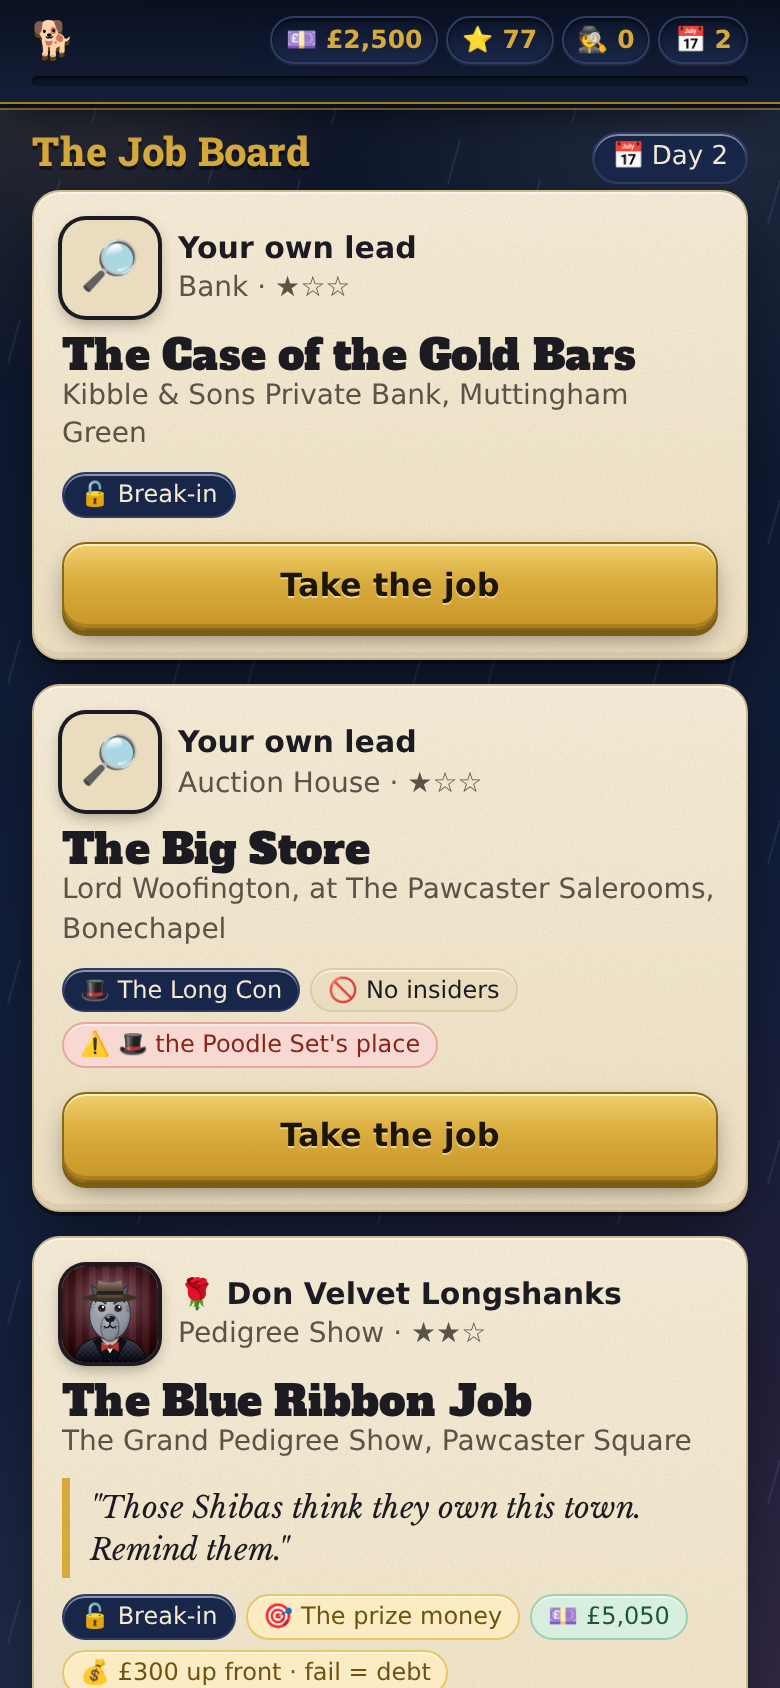
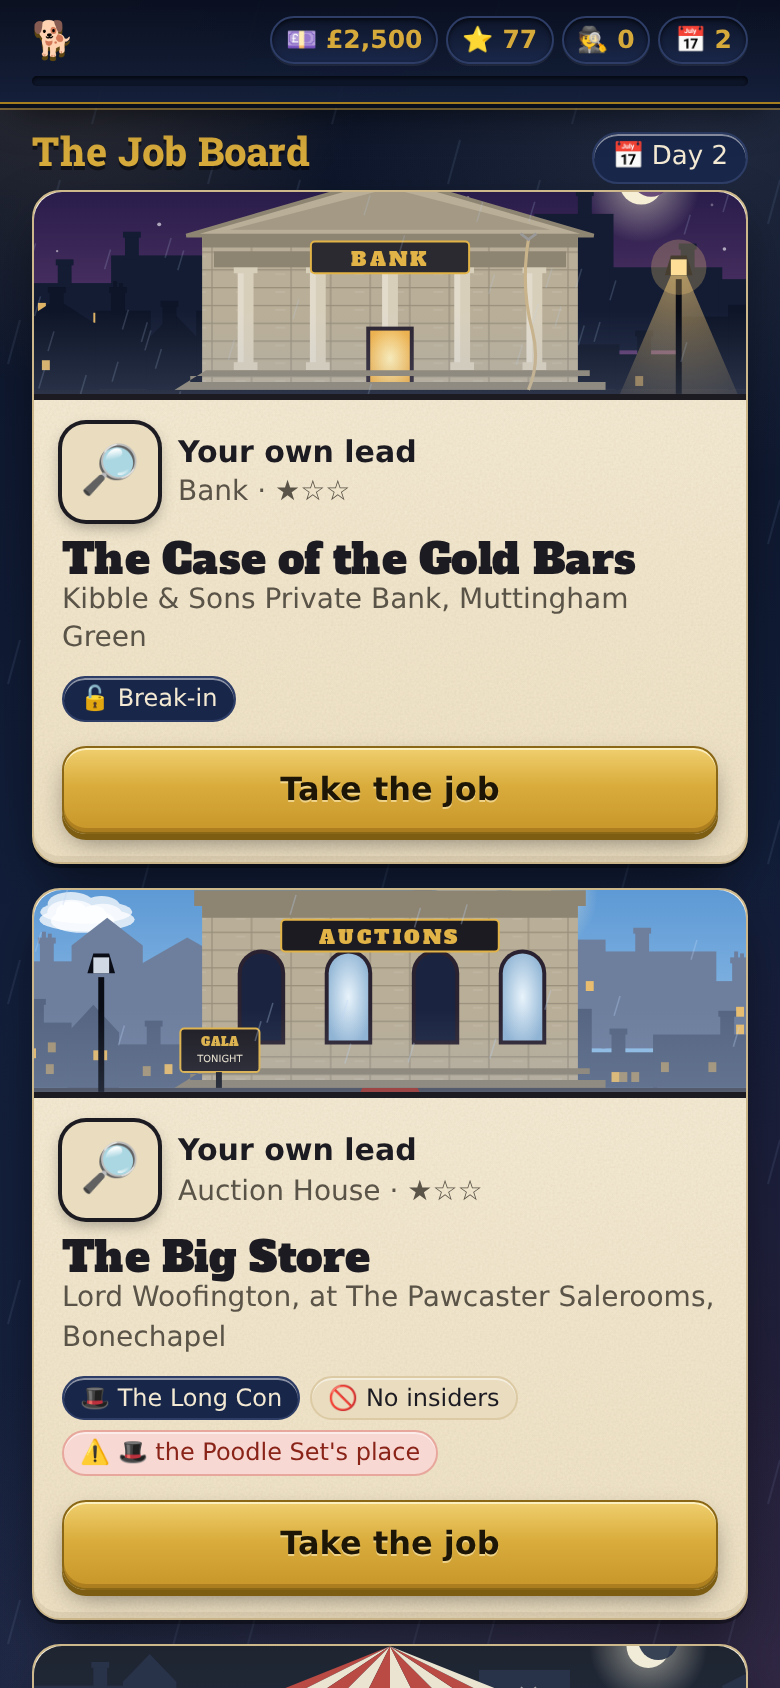
Job art: day and night, weather, textures, a hint of the job
- Scenes follow the job's time: a daytime version (blue sky, sun and
  clouds, glass windows, no lamplight) for day jobs and when you switch
  a job to day.
- Per-job mood and weather: night, dusk or deep night; rain, drizzle,
  fog or a clear night.
- Brick and stone textures on the buildings; lamplight shimmering on the
  wet street.
- A prop out front for each kind of job: the SECURI-K9 van and a guard,
  a bin through the window and glass on the pavement, a red carpet and
  GALA sign, a FRAGILE crate of replicas, the FLOWERS van with a dish
  and a glowing screen, a NOW HIRING sign, a rope off the roof.
- The job board shows each offer's scene as a 104px banner.
- Before/after: notes/captures/venues-*.png.

Claude-Session: https://claude.ai/code/session_0119DQBJUjuLkFW8ZZge45qz

diff --git a/src/art.js b/src/art.js
@@ -7,19 +7,39 @@ import { esc } from './util.js';
 let artUid = 0;
 const f1 = (n) => n.toFixed(1);
 
-function sky(u, W, H, rng) {
+// The sky for a scene. mood: { day, tone: 'night' | 'dusk' | 'deep', weather }.
+const SKIES = {
+  night: ['#0a1226', '#1d2f59', '#2d3f6b'],
+  dusk: ['#1b1440', '#5a3a6e', '#c9726a'],
+  deep: ['#05080f', '#101a33', '#1c2846'],
+  day: ['#4f8fd0', '#8fbde6', '#d6e8f4'],
+};
+function sky(u, W, H, rng, mood = {}) {
+  const [c0, c1, c2] = SKIES[mood.day ? 'day' : mood.tone || 'night'];
   let s = `<defs>
-    <linearGradient id="${u}sky" x1="0" y1="0" x2="0" y2="1"><stop offset="0" stop-color="#0a1226"/><stop offset=".7" stop-color="#1d2f59"/><stop offset="1" stop-color="#2d3f6b"/></linearGradient>
-    <radialGradient id="${u}moon" cx="50%" cy="50%" r="50%"><stop offset="0" stop-color="#fff8dc" stop-opacity=".55"/><stop offset="1" stop-color="#fff8dc" stop-opacity="0"/></radialGradient>
-    <radialGradient id="${u}lamp" cx="50%" cy="0%" r="100%"><stop offset="0" stop-color="#ffd27a" stop-opacity=".55"/><stop offset="1" stop-color="#ffd27a" stop-opacity="0"/></radialGradient>
-    <radialGradient id="${u}win" cx="50%" cy="50%" r="60%"><stop offset="0" stop-color="#fff0b8"/><stop offset="1" stop-color="#f0b24a"/></radialGradient>
-    <linearGradient id="${u}fog" x1="0" y1="0" x2="0" y2="1"><stop offset="0" stop-color="#9fb2d6" stop-opacity="0"/><stop offset="1" stop-color="#9fb2d6" stop-opacity=".28"/></linearGradient>
-    <linearGradient id="${u}street" x1="0" y1="0" x2="0" y2="1"><stop offset="0" stop-color="#1b2238"/><stop offset="1" stop-color="#0b0f1c"/></linearGradient>
+    <linearGradient id="${u}sky" x1="0" y1="0" x2="0" y2="1"><stop offset="0" stop-color="${c0}"/><stop offset=".7" stop-color="${c1}"/><stop offset="1" stop-color="${c2}"/></linearGradient>
+    <radialGradient id="${u}moon" cx="50%" cy="50%" r="50%"><stop offset="0" stop-color="${mood.day ? '#fffbe6' : '#fff8dc'}" stop-opacity="${mood.day ? '.8' : '.55'}"/><stop offset="1" stop-color="#fff8dc" stop-opacity="0"/></radialGradient>
+    <radialGradient id="${u}lamp" cx="50%" cy="0%" r="100%"><stop offset="0" stop-color="#ffd27a" stop-opacity="${mood.day ? 0 : 0.55}"/><stop offset="1" stop-color="#ffd27a" stop-opacity="0"/></radialGradient>
+    <radialGradient id="${u}win" cx="50%" cy="50%" r="60%">${mood.day ? '<stop offset="0" stop-color="#e8f3fb"/><stop offset="1" stop-color="#8fb4d4"/>' : '<stop offset="0" stop-color="#fff0b8"/><stop offset="1" stop-color="#f0b24a"/>'}</radialGradient>
+    <linearGradient id="${u}fog" x1="0" y1="0" x2="0" y2="1"><stop offset="0" stop-color="#9fb2d6" stop-opacity="0"/><stop offset="1" stop-color="#9fb2d6" stop-opacity="${mood.weather === 'fog' ? 0.6 : 0.28}"/></linearGradient>
+    <linearGradient id="${u}street" x1="0" y1="0" x2="0" y2="1">${mood.day ? '<stop offset="0" stop-color="#5b6274"/><stop offset="1" stop-color="#3a3f4d"/>' : '<stop offset="0" stop-color="#1b2238"/><stop offset="1" stop-color="#0b0f1c"/>'}</linearGradient>
+    <pattern id="${u}brick" width="12" height="6" patternUnits="userSpaceOnUse"><path d="M0 .3H12M0 3.3H12M3 .3V3.3M9 3.3V6.3" stroke="#000" stroke-width=".6" opacity=".22"/><rect x="4" y="1" width="3" height="1.4" fill="#fff" opacity=".05"/></pattern>
+    <pattern id="${u}stone" width="20" height="9" patternUnits="userSpaceOnUse"><path d="M0 .3H20M10 .3V9" stroke="#000" stroke-width=".6" opacity=".18"/><rect x="2" y="2" width="5" height="1" fill="#fff" opacity=".08"/></pattern>
   </defs>`;
   s += `<rect width="${W}" height="${H}" fill="url(#${u}sky)"/>`;
-  for (let i = 0; i < 18; i++) s += `<circle cx="${f1(rng.float(0, W))}" cy="${f1(rng.float(2, H * 0.4))}" r="${f1(rng.float(0.4, 1.1))}" fill="#fff" opacity="${f1(rng.float(0.3, 0.8))}"/>`;
+  if (mood.day) {
+    // Sun and a few clouds.
+    const sx = rng.float(W * 0.65, W * 0.9), sy = rng.float(16, 28);
+    s += `<circle cx="${f1(sx)}" cy="${f1(sy)}" r="34" fill="url(#${u}moon)"/><circle cx="${f1(sx)}" cy="${f1(sy)}" r="10" fill="#fff6c8"/>`;
+    for (let i = 0; i < 4; i++) {
+      const cx = rng.float(0, W), cy = rng.float(10, 46), w = rng.float(26, 50);
+      s += `<g fill="#fff" opacity=".75"><ellipse cx="${f1(cx)}" cy="${f1(cy)}" rx="${f1(w / 2)}" ry="6"/><ellipse cx="${f1(cx - w / 6)}" cy="${f1(cy - 4)}" rx="${f1(w / 4)}" ry="6"/><ellipse cx="${f1(cx + w / 6)}" cy="${f1(cy - 3)}" rx="${f1(w / 5)}" ry="5"/></g>`;
+    }
+    return s;
+  }
+  if (mood.weather !== 'fog') for (let i = 0; i < 18; i++) s += `<circle cx="${f1(rng.float(0, W))}" cy="${f1(rng.float(2, H * 0.4))}" r="${f1(rng.float(0.4, 1.1))}" fill="#fff" opacity="${f1(rng.float(0.3, 0.8))}"/>`;
   const mx = rng.float(W * 0.65, W * 0.92), my = rng.float(18, 32);
-  s += `<circle cx="${f1(mx)}" cy="${f1(my)}" r="30" fill="url(#${u}moon)"/><circle cx="${f1(mx)}" cy="${f1(my)}" r="11" fill="#f6efd6"/><circle cx="${f1(mx + 5)}" cy="${f1(my - 3)}" r="10" fill="#1a2a50" opacity=".9"/>`;
+  s += `<circle cx="${f1(mx)}" cy="${f1(my)}" r="30" fill="url(#${u}moon)"/><circle cx="${f1(mx)}" cy="${f1(my)}" r="11" fill="#f6efd6"/><circle cx="${f1(mx + 5)}" cy="${f1(my - 3)}" r="10" fill="${c1}" opacity=".9"/>`;
   return s;
 }
 
@@ -58,7 +78,7 @@ function windows(u, x0, y0, cols, rows, w, h, gx, gy, rng, frame = '#2a2230') {
       s += `<rect x="${x - 1.5}" y="${y - 1.5}" width="${w + 3}" height="${h + 3}" fill="${frame}"/>`;
       s += `<rect x="${x}" y="${y}" width="${w}" height="${h}" fill="${lit ? `url(#${u}win)` : '#1a2440'}"/>`;
       s += `<path d="M${x + w / 2} ${y} V${y + h} M${x} ${y + h / 2} H${x + w}" stroke="${frame}" stroke-width="1"/>`;
-      if (lit) s += `<rect x="${x - 4}" y="${y - 4}" width="${w + 8}" height="${h + 8}" fill="#ffd27a" opacity=".12"/>`;
+      if (lit) s += `<rect x="${x - 4}" y="${y - 4}" width="${w + 8}" height="${h + 8}" fill="url(#${u}lamp)" opacity=".5"/>`;
       else s += `<path d="M${x + 1} ${y + 1} L${x + w * 0.4} ${y + h * 0.4}" stroke="#fff" stroke-opacity=".15"/>`;
     }
   }
@@ -94,9 +114,8 @@ function building(u, type, cx, ground, rng) {
   if (type === 'bank' || type === 'museum' || type === 'auction') {
     const w = 190, h = type === 'auction' ? 92 : 78, x = cx - w / 2, y = ground - h;
     if (type === 'museum') s += `<ellipse cx="${cx}" cy="${y - 20}" rx="34" ry="28" fill="#7f9aa0"/><rect x="${cx - 36}" y="${y - 22}" width="72" height="22" fill="${stone}"/><path d="M${cx - 30} ${y - 30} Q${cx} ${y - 60} ${cx + 30} ${y - 30}" stroke="#fff" stroke-opacity=".2" fill="none" stroke-width="3"/><rect x="${cx - 1.5}" y="${y - 56}" width="3" height="10" fill="#7f9aa0"/>`;
-    s += `<rect x="${x}" y="${y}" width="${w}" height="${h}" fill="${stone}"/>`;
+    s += `<rect x="${x}" y="${y}" width="${w}" height="${h}" fill="${stone}"/><rect x="${x}" y="${y}" width="${w}" height="${h}" fill="url(#${u}stone)"/>`;
     s += `<path d="M${x} ${y} h${w} v6 h${-w} Z" fill="${stoneDk}"/>`;
-    for (let r = 1; r < h / 9; r++) s += `<path d="M${x} ${y + r * 9} h${w}" stroke="${stoneDk}" stroke-opacity=".35"/>`;
     if (type !== 'auction') {
       s += `<path d="M${x - 8} ${y} L${cx} ${y - 30} L${x + w + 8} ${y} Z" fill="${stone}" stroke="${stoneDk}" stroke-width="2"/><path d="M${x + 14} ${y - 3} L${cx} ${y - 24} L${x + w - 14} ${y - 3} Z" fill="${stoneDk}" opacity=".5"/>`;
       s += columns(x + 22, y + 18, w - 44, h - 30, 5);
@@ -117,8 +136,7 @@ function building(u, type, cx, ground, rng) {
   } else if (type === 'jeweller' || type === 'butcher') {
     const w = 170, h = 96, x = cx - w / 2, y = ground - h;
     const brick = type === 'jeweller' ? '#3b2c3f' : '#7a3b2e';
-    s += `<rect x="${x}" y="${y}" width="${w}" height="${h}" fill="${brick}"/>`;
-    for (let r = 0; r < h / 6; r++) s += `<path d="M${x} ${y + r * 6} h${w}" stroke="#000" stroke-opacity=".12"/>`;
+    s += `<rect x="${x}" y="${y}" width="${w}" height="${h}" fill="${brick}"/><rect x="${x}" y="${y}" width="${w}" height="${h}" fill="url(#${u}brick)"/>`;
     s += windows(u, x + 20, y + 10, 4, 1, 22, 20, 18, 0, rng);
     s += `<rect x="${x + 6}" y="${y + 44}" width="${w - 12}" height="${h - 44}" fill="#1d1b22"/>`;
     s += sign(cx, y + 43, 120, type === 'jeweller' ? 'JEWELLERS' : 'BUTCHER', type === 'jeweller' ? '#1d1b22' : '#1f3a2a', type === 'jeweller' ? '#e2b447' : '#f3ead3');
@@ -133,14 +151,13 @@ function building(u, type, cx, ground, rng) {
     const w = 200, h = 80, x = cx - w / 2, y = ground - h;
     s += `<path d="M${x - 6} ${y} L${cx} ${y - 34} L${x + w + 6} ${y} Z" fill="#3c2f3a"/>`;
     s += `<rect x="${x + 30}" y="${y - 44}" width="10" height="24" fill="#6a3a2e"/><rect x="${x + w - 40}" y="${y - 44}" width="10" height="24" fill="#6a3a2e"/>`;
-    s += `<rect x="${x}" y="${y}" width="${w}" height="${h}" fill="#8a4a38"/>`;
-    for (let r = 0; r < h / 6; r++) s += `<path d="M${x} ${y + r * 6} h${w}" stroke="#000" stroke-opacity=".12"/>`;
+    s += `<rect x="${x}" y="${y}" width="${w}" height="${h}" fill="#8a4a38"/><rect x="${x}" y="${y}" width="${w}" height="${h}" fill="url(#${u}brick)"/>`;
     s += windows(u, x + 16, y + 10, 5, 2, 20, 22, 18, 12, rng, '#efe6cf');
     s += `<path d="M${cx - 14} ${ground} V${ground - 30} a14 14 0 0 1 28 0 V${ground} Z" fill="#2b3b30" stroke="#efe6cf" stroke-width="2"/><circle cx="${cx + 20}" cy="${ground - 34}" r="3" fill="#ffd27a"/>`;
     s += `<ellipse cx="${x + 10}" cy="${ground - 4}" rx="18" ry="9" fill="#1f3a2a"/><ellipse cx="${x + w - 10}" cy="${ground - 4}" rx="18" ry="9" fill="#1f3a2a"/>`;
   } else if (type === 'casino') {
     const w = 190, h = 90, x = cx - w / 2, y = ground - h;
-    s += `<rect x="${x}" y="${y}" width="${w}" height="${h}" fill="#241a2e"/>`;
+    s += `<rect x="${x}" y="${y}" width="${w}" height="${h}" fill="#241a2e"/><rect x="${x}" y="${y}" width="${w}" height="${h}" fill="url(#${u}brick)" opacity=".6"/>`;
     s += windows(u, x + 14, y + 36, 6, 1, 18, 16, 11, 0, rng, '#120d18');
     s += `<rect x="${x + 20}" y="${y + 6}" width="${w - 40}" height="24" rx="4" fill="#3a1030" stroke="#ff5ca8" stroke-width="2"/>`;
     s += `<text x="${cx}" y="${y + 23}" text-anchor="middle" font-family="Alfa Slab One, Rockwell, Georgia, serif" font-size="14" letter-spacing="2" fill="#ffd3ea">CASINO</text>`;
@@ -164,27 +181,73 @@ function building(u, type, cx, ground, rng) {
   return s;
 }
 
-export function venueSVG(job) {
+// Something out front that says what kind of job it is.
+function props(u, type, W, ground, rng, day) {
+  const x = rng.chance(0.5) ? 70 : W - 120;
+  const ink = '#14161f';
+  switch (type) {
+    case 'van': // the armoured van, and a guard
+      return `<g><rect x="${x}" y="${ground - 30}" width="56" height="26" rx="3" fill="#5a6270"/><rect x="${x + 40}" y="${ground - 24}" width="18" height="20" rx="3" fill="#4a515e"/><rect x="${x + 44}" y="${ground - 21}" width="11" height="8" fill="${day ? '#9fc3e6' : '#2a3a5a'}"/>
+        <rect x="${x + 4}" y="${ground - 26}" width="34" height="10" fill="#3a404b"/><text x="${x + 21}" y="${ground - 18.5}" text-anchor="middle" font-size="5.5" font-family="system-ui,sans-serif" font-weight="800" fill="#e2b447">SECURI-K9</text>
+        <circle cx="${x + 12}" cy="${ground - 3}" r="5" fill="${ink}"/><circle cx="${x + 46}" cy="${ground - 3}" r="5" fill="${ink}"/><circle cx="${x + 12}" cy="${ground - 3}" r="2" fill="#777"/><circle cx="${x + 46}" cy="${ground - 3}" r="2" fill="#777"/>
+        <rect x="${x - 12}" y="${ground - 20}" width="7" height="14" rx="2" fill="#26314a"/><circle cx="${x - 8.5}" cy="${ground - 24}" r="4" fill="#c69064"/><rect x="${x - 13}" y="${ground - 29}" width="9" height="3" fill="#111"/></g>`;
+    case 'smash': // a bin mid-flight and glass on the pavement
+      return `<g><rect x="${W / 2 - 50}" y="${ground - 46}" width="12" height="15" rx="2" fill="#3c4a3a" transform="rotate(-24 ${W / 2 - 44} ${ground - 38})"/><path d="M${W / 2 - 70} ${ground - 40} q8 -4 14 -2" stroke="#fff" stroke-opacity=".5" fill="none" stroke-dasharray="2 2"/>
+        ${Array.from({ length: 10 }, (_, i) => `<path d="M${f1(W / 2 - 40 + i * 9 + rng.float(-3, 3))} ${f1(ground + 2 + rng.float(0, 6))} l2 -3 l2 3 Z" fill="#cfe8ff" opacity=".8"/>`).join('')}</g>`;
+    case 'con': // a red carpet and a gala sign
+      return `<g><path d="M${W / 2 - 14} ${ground} L${W / 2 + 14} ${ground} L${W / 2 + 26} ${ground + 26} L${W / 2 - 26} ${ground + 26} Z" fill="#9c2e27"/>
+        <rect x="${x + 4}" y="${ground - 30}" width="40" height="22" rx="2" fill="#1d1b22" stroke="#e2b447"/><text x="${x + 24}" y="${ground - 21}" text-anchor="middle" font-size="6" font-family="Alfa Slab One, Georgia, serif" fill="#e2b447">GALA</text><text x="${x + 24}" y="${ground - 13}" text-anchor="middle" font-size="5" font-family="system-ui,sans-serif" fill="#efe6cf">TONIGHT</text><rect x="${x + 22}" y="${ground - 8}" width="3" height="8" fill="${ink}"/></g>`;
+    case 'swap': // a crate of replicas being delivered
+      return `<g><rect x="${x}" y="${ground - 18}" width="30" height="18" fill="#a07a48" stroke="#6d5130"/><path d="M${x} ${ground - 18} l30 18 M${x + 30} ${ground - 18} l-30 18" stroke="#6d5130"/><text x="${x + 15}" y="${ground - 21}" text-anchor="middle" font-size="5" font-family="system-ui,sans-serif" font-weight="800" fill="#f3ead3">FRAGILE</text></g>`;
+    case 'hack': // a van with a dish and a glowing screen
+      return `<g><rect x="${x}" y="${ground - 26}" width="52" height="22" rx="4" fill="#e9e3d2"/><rect x="${x + 38}" y="${ground - 22}" width="12" height="9" fill="${day ? '#9fc3e6' : '#2a3a5a'}"/><rect x="${x + 6}" y="${ground - 21}" width="16" height="9" fill="#5fffa8" opacity=".85"/>
+        <text x="${x + 26}" y="${ground - 8}" text-anchor="middle" font-size="5" font-family="system-ui,sans-serif" font-weight="800" fill="#7a2340">FLOWERS</text><path d="M${x + 20} ${ground - 26} l4 -8 M${x + 18} ${ground - 38} a8 8 0 0 0 12 8" stroke="#bbb" stroke-width="1.6" fill="none"/>
+        <circle cx="${x + 10}" cy="${ground - 3}" r="4.5" fill="${ink}"/><circle cx="${x + 42}" cy="${ground - 3}" r="4.5" fill="${ink}"/></g>`;
+    case 'fraud': // the job advert in the window
+      return `<g><rect x="${x + 6}" y="${ground - 34}" width="36" height="14" rx="2" fill="#efe6cf" stroke="#1d1b22"/><text x="${x + 24}" y="${ground - 24.5}" text-anchor="middle" font-size="6" font-family="Alfa Slab One, Georgia, serif" fill="#9c2e27">NOW HIRING</text><rect x="${x + 22}" y="${ground - 20}" width="3" height="20" fill="${ink}"/></g>`;
+    default: // a break-in: a rope dangling from the roof
+      return `<path d="M${W / 2 + 70} ${ground - 76} q-4 24 2 46 q4 16 -2 30" stroke="#c9b38a" stroke-width="1.6" fill="none"/><path d="M${W / 2 + 66} ${ground - 79} l4 3 l4 -3" stroke="#999" stroke-width="1.4" fill="none"/>`;
+  }
+}
+
+// The job's scene: its venue, by day or night, in its own weather, with a hint of the job.
+// compact: a shorter crop for the job board.
+export function venueSVG(job, opts = {}) {
   const u = `va${++artUid}`;
   const W = 360, H = 150, ground = 124;
   const rng = makeRng({ s: hashString(job.id + job.venueName) });
-  let s = sky(u, W, H, rng);
-  s += rooftops(W, ground - 20, rng, '#131c33', 30, 70);
-  s += rooftops(W, ground, rng, '#0e1528', 16, 44);
+  const day = job.time === 'day';
+  const mood = { day, tone: rng.pick(['night', 'night', 'dusk', 'deep']), weather: rng.pick(['rain', 'rain', 'fog', 'clear', 'drizzle']) };
+  let s = sky(u, W, H, rng, mood);
+  s += rooftops(W, ground - 20, rng, day ? '#6e7f9e' : '#131c33', 30, 70);
+  s += rooftops(W, ground, rng, day ? '#566682' : '#0e1528', 16, 44);
   s += building(u, job.venueType, W / 2, ground, rng);
   // street & lamp
   s += `<rect y="${ground}" width="${W}" height="${H - ground}" fill="url(#${u}street)"/>`;
-  for (let i = 0; i < 40; i++) s += `<ellipse cx="${f1(rng.float(0, W))}" cy="${f1(rng.float(ground + 4, H - 2))}" rx="${f1(rng.float(3, 6))}" ry="1.4" fill="#fff" opacity=".06"/>`;
+  s += `<rect y="${ground}" width="${W}" height="2" fill="#000" opacity=".25"/>`;
+  for (let i = 0; i < 40; i++) s += `<ellipse cx="${f1(rng.float(0, W))}" cy="${f1(rng.float(ground + 4, H - 2))}" rx="${f1(rng.float(3, 6))}" ry="1.4" fill="#fff" opacity="${mood.weather === 'clear' ? 0.03 : 0.06}"/>`;
+  // Wet street: the building's lights shine back up from the road.
+  if (!day && mood.weather !== 'clear') {
+    for (let i = 0; i < 7; i++) {
+      const rx = W / 2 - 84 + i * 28 + rng.float(-6, 6);
+      for (let k = 0; k < 4; k++) s += `<rect x="${f1(rx + rng.float(-2, 2))}" y="${f1(ground + 4 + k * 5)}" width="${f1(rng.float(4, 9) - k)}" height="1.2" rx=".6" fill="#ffd27a" opacity="${f1(0.28 - k * 0.06)}"/>`;
+    }
+  }
   const lx = rng.chance(0.5) ? 34 : W - 34;
   s += `<path d="M${lx - 40} ${H} L${lx - 4} ${ground - 58} L${lx + 4} ${ground - 58} L${lx + 40} ${H} Z" fill="url(#${u}lamp)"/>`;
-  s += `<rect x="${lx - 1.5}" y="${ground - 56}" width="3" height="58" fill="#0a0d16"/><path d="M${lx - 7} ${ground - 58} h14 l-3 -10 h-8 Z" fill="#0a0d16"/><rect x="${lx - 4}" y="${ground - 66}" width="8" height="8" fill="#ffe3a0"/><circle cx="${lx}" cy="${ground - 62}" r="14" fill="#ffd27a" opacity=".25"/>`;
-  s += `<ellipse cx="${lx}" cy="${ground + 14}" rx="22" ry="3" fill="#ffd27a" opacity=".18"/>`;
+  s += `<rect x="${lx - 1.5}" y="${ground - 56}" width="3" height="58" fill="#0a0d16"/><path d="M${lx - 7} ${ground - 58} h14 l-3 -10 h-8 Z" fill="#0a0d16"/><rect x="${lx - 4}" y="${ground - 66}" width="8" height="8" fill="${day ? '#cfd8e3' : '#ffe3a0'}"/>`;
+  if (!day) s += `<circle cx="${lx}" cy="${ground - 62}" r="14" fill="#ffd27a" opacity=".25"/><ellipse cx="${lx}" cy="${ground + 14}" rx="22" ry="3" fill="#ffd27a" opacity=".18"/>`;
+  s += props(u, job.type || 'breakin', W, ground, rng, day);
   s += `<rect y="${ground - 40}" width="${W}" height="${H - ground + 40}" fill="url(#${u}fog)"/>`;
-  // rain
-  let rain = '';
-  for (let i = 0; i < 40; i++) { const x = rng.float(0, W), y = rng.float(0, H); rain += `M${f1(x)} ${f1(y)} l-3 10 `; }
-  s += `<path d="${rain}" stroke="#bcd3f5" stroke-opacity=".18" stroke-width=".8"/>`;
-  return `<svg class="venue-art" viewBox="0 0 ${W} ${H}" xmlns="http://www.w3.org/2000/svg" role="img" aria-label="${esc(job.venueName)} at night">${s}</svg>`;
+  if (mood.weather === 'fog') s += `<rect width="${W}" height="${H}" fill="#c9d3e6" opacity="${day ? 0.25 : 0.12}"/>`;
+  // rain or drizzle
+  if (mood.weather === 'rain' || mood.weather === 'drizzle') {
+    let rain = '';
+    const n = mood.weather === 'rain' ? 46 : 20;
+    for (let i = 0; i < n; i++) { const x = rng.float(0, W), y = rng.float(0, H); rain += `M${f1(x)} ${f1(y)} l-3 10 `; }
+    s += `<path d="${rain}" stroke="#bcd3f5" stroke-opacity="${day ? 0.3 : 0.18}" stroke-width=".8"/>`;
+  }
+  return `<svg class="venue-art ${opts.compact ? 'compact' : ''}" viewBox="0 0 ${W} ${H}" ${opts.compact ? 'preserveAspectRatio="xMidYMid slice"' : ''} xmlns="http://www.w3.org/2000/svg" role="img" aria-label="${esc(job.venueName)} ${day ? 'by day' : 'at night'}">${s}</svg>`;
 }
 
 export function skylineSVG(seed = 7) {

diff --git a/styles.css b/styles.css
@@ -160,6 +160,7 @@ p { margin: 0 0 8px; }
 
 /* ---------- job card */
 .venue-art { display: block; width: calc(100% + 28px); margin: -14px -14px 12px; height: auto; border-radius: var(--radius) var(--radius) 0 0; border-bottom: 3px solid var(--ink); }
+.venue-art.compact { height: 104px; }
 .job-name { font-family: var(--font-display); font-size: 23px; font-weight: 400; letter-spacing: .01em; color: var(--ink); line-height: 1.1; text-wrap: balance; }
 .stamp { display: inline-block; border: 3px double var(--red); color: var(--red); font-family: var(--font-display); font-weight: 400; text-transform: uppercase; letter-spacing: .08em; padding: 1px 8px; transform: rotate(-3deg); font-size: 13px; border-radius: 4px; box-shadow: inset 0 0 0 1px rgba(194, 59, 46, .25); opacity: .9; mix-blend-mode: multiply; }
 .loot-list { list-style: none; padding: 0; margin: 8px 0 0; }

diff --git a/src/ui.js b/src/ui.js
@@ -159,6 +159,7 @@ function selectScreen(G) {
     const pic = o.source === 'own' ? '<div class="boss-pic own">🔎</div>' : `<div class="boss-pic">${portraitSVG(bossDog(o.source), { size: 48 })}</div>`;
     const whoName = o.source === 'own' ? 'Your own lead' : `${GROUPS[o.source].emblem} ${esc(GROUPS[o.source].boss)}`;
     h += `<section class="card offer ${o.kind === 'marker' ? 'marker' : ''}" data-offer="${o.id}">
+      ${venueSVG(job, { compact: true })}
       <div class="offer-from">${pic}<div class="grow"><b>${whoName}</b><div class="muted">${esc(VENUE_LABELS[job.venueType])} · ${stars}</div></div></div>
       <div class="job-name">${esc(job.name)}</div>
       <p class="muted">${esc(job.venueName)}, ${esc(job.district)}</p>
